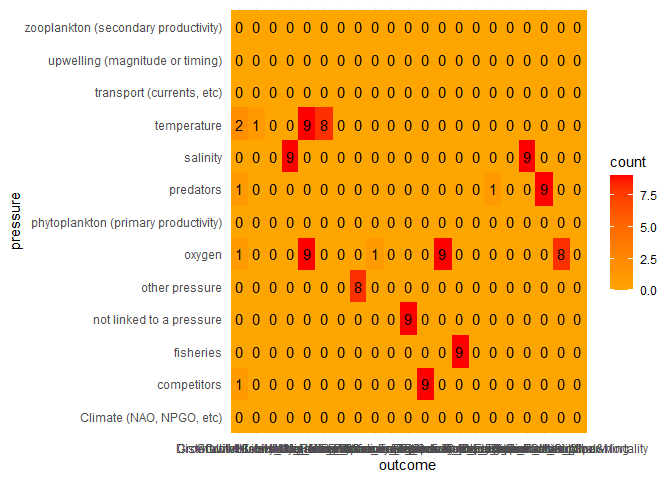
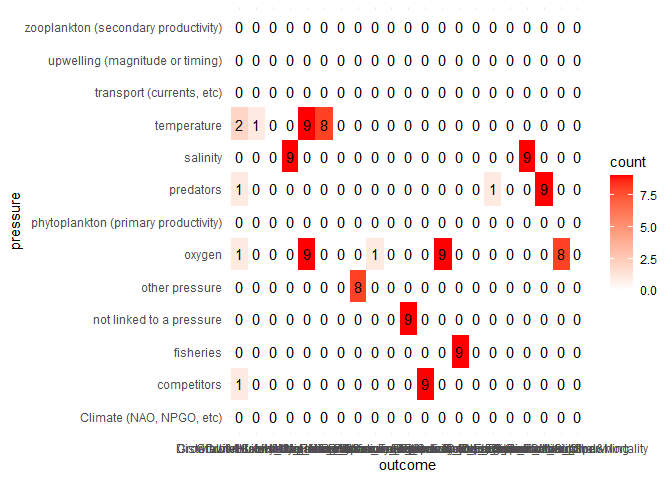
added libraries, edited figure

diff --git a/README.md b/README.md
@@ -4,12 +4,16 @@ standardized method and with standardized output
 Chris Rooper, Jennifer Boldt
 October 15, 2020
 
-\#\#PURPOSE The purpose of this package is to provide a set of functions
-that convert the forage fish literature review template into data that
-can be processed into a standard set of tables and figures.
+## PURPOSE
 
-\#\#INSTALLATION To install the package you must use the “devtools”
-package from CRAN. If you have not already installed it use:
+The purpose of this package is to provide a set of functions that
+convert the forage fish literature review template into data that can be
+processed into a standard set of tables and figures.
+
+## INSTALLATION
+
+To install the package you must use the “devtools” package from CRAN. If
+you have not already installed it use:
 
 ``` r
 # Install and load devtools package
@@ -26,16 +30,19 @@ install_github("rooperc4/ForageFishLitReview")
 library(ForageFishLitReview)
 ```
 
-\#\#DATA The example data set included in this package is made up, but
-follows the specified template. In the package it is called
-litdata.xlsm. It is the template data sheet into which the literature
-review has been compiled. Importantly, the excel workbook must include
-at least two worksheets: one containing the data and one containing the
-drop-down menus.
+## DATA
+
+The example data set included in this package is made up, but follows
+the specified template. In the package it is called litdata.xlsm. It is
+the template data sheet into which the literature review has been
+compiled. Importantly, the excel workbook must include at least two
+worksheets: one containing the data and one containing the drop-down
+menus.
 
 Load the data from the example file (included in the package).
 
 ``` r
+library(readxl)
 ExampleFilePath<-system.file("extdata","Literature_Data.xlsm",package="ForageFishLitReview")
 
 ff_table<-read_excel(ExampleFilePath,sheet="Example 2")
@@ -60,6 +67,8 @@ many times each of the pressures occurs in each column. Then we make the
 table a bit prettier to look like Figure 13.
 
 ``` r
+library(ggplot2)
+
 data1<-ff_table[,which(colnames(ff_table)%in%outcomes)]
 
 pressure_data<-pressure_table(pressures,data1)
@@ -67,11 +76,11 @@ pressure_data<-pressure_table(pressures,data1)
                       
                       
 ggplot(pressure_data, aes(x=outcome, y=pressure, col = count, fill = count, label = count)) +
-  geom_tile() +
-  geom_text(col = "black") +
-  theme_minimal() +
-  scale_fill_gradient2(low = "white", mid = "orange", high = "red") +
-  scale_color_gradient2(low = "white", mid = "orange", high = "red")
+geom_tile() +
+geom_text(col = "black") +
+theme_minimal() +
+scale_fill_gradient2(low = "white", high = "red") +
+scale_color_gradient2(low = "white", high = "red")
 ```
 
 ![](Code_files/figure-gfm/grep%20the%20words-1.png)<!-- -->
